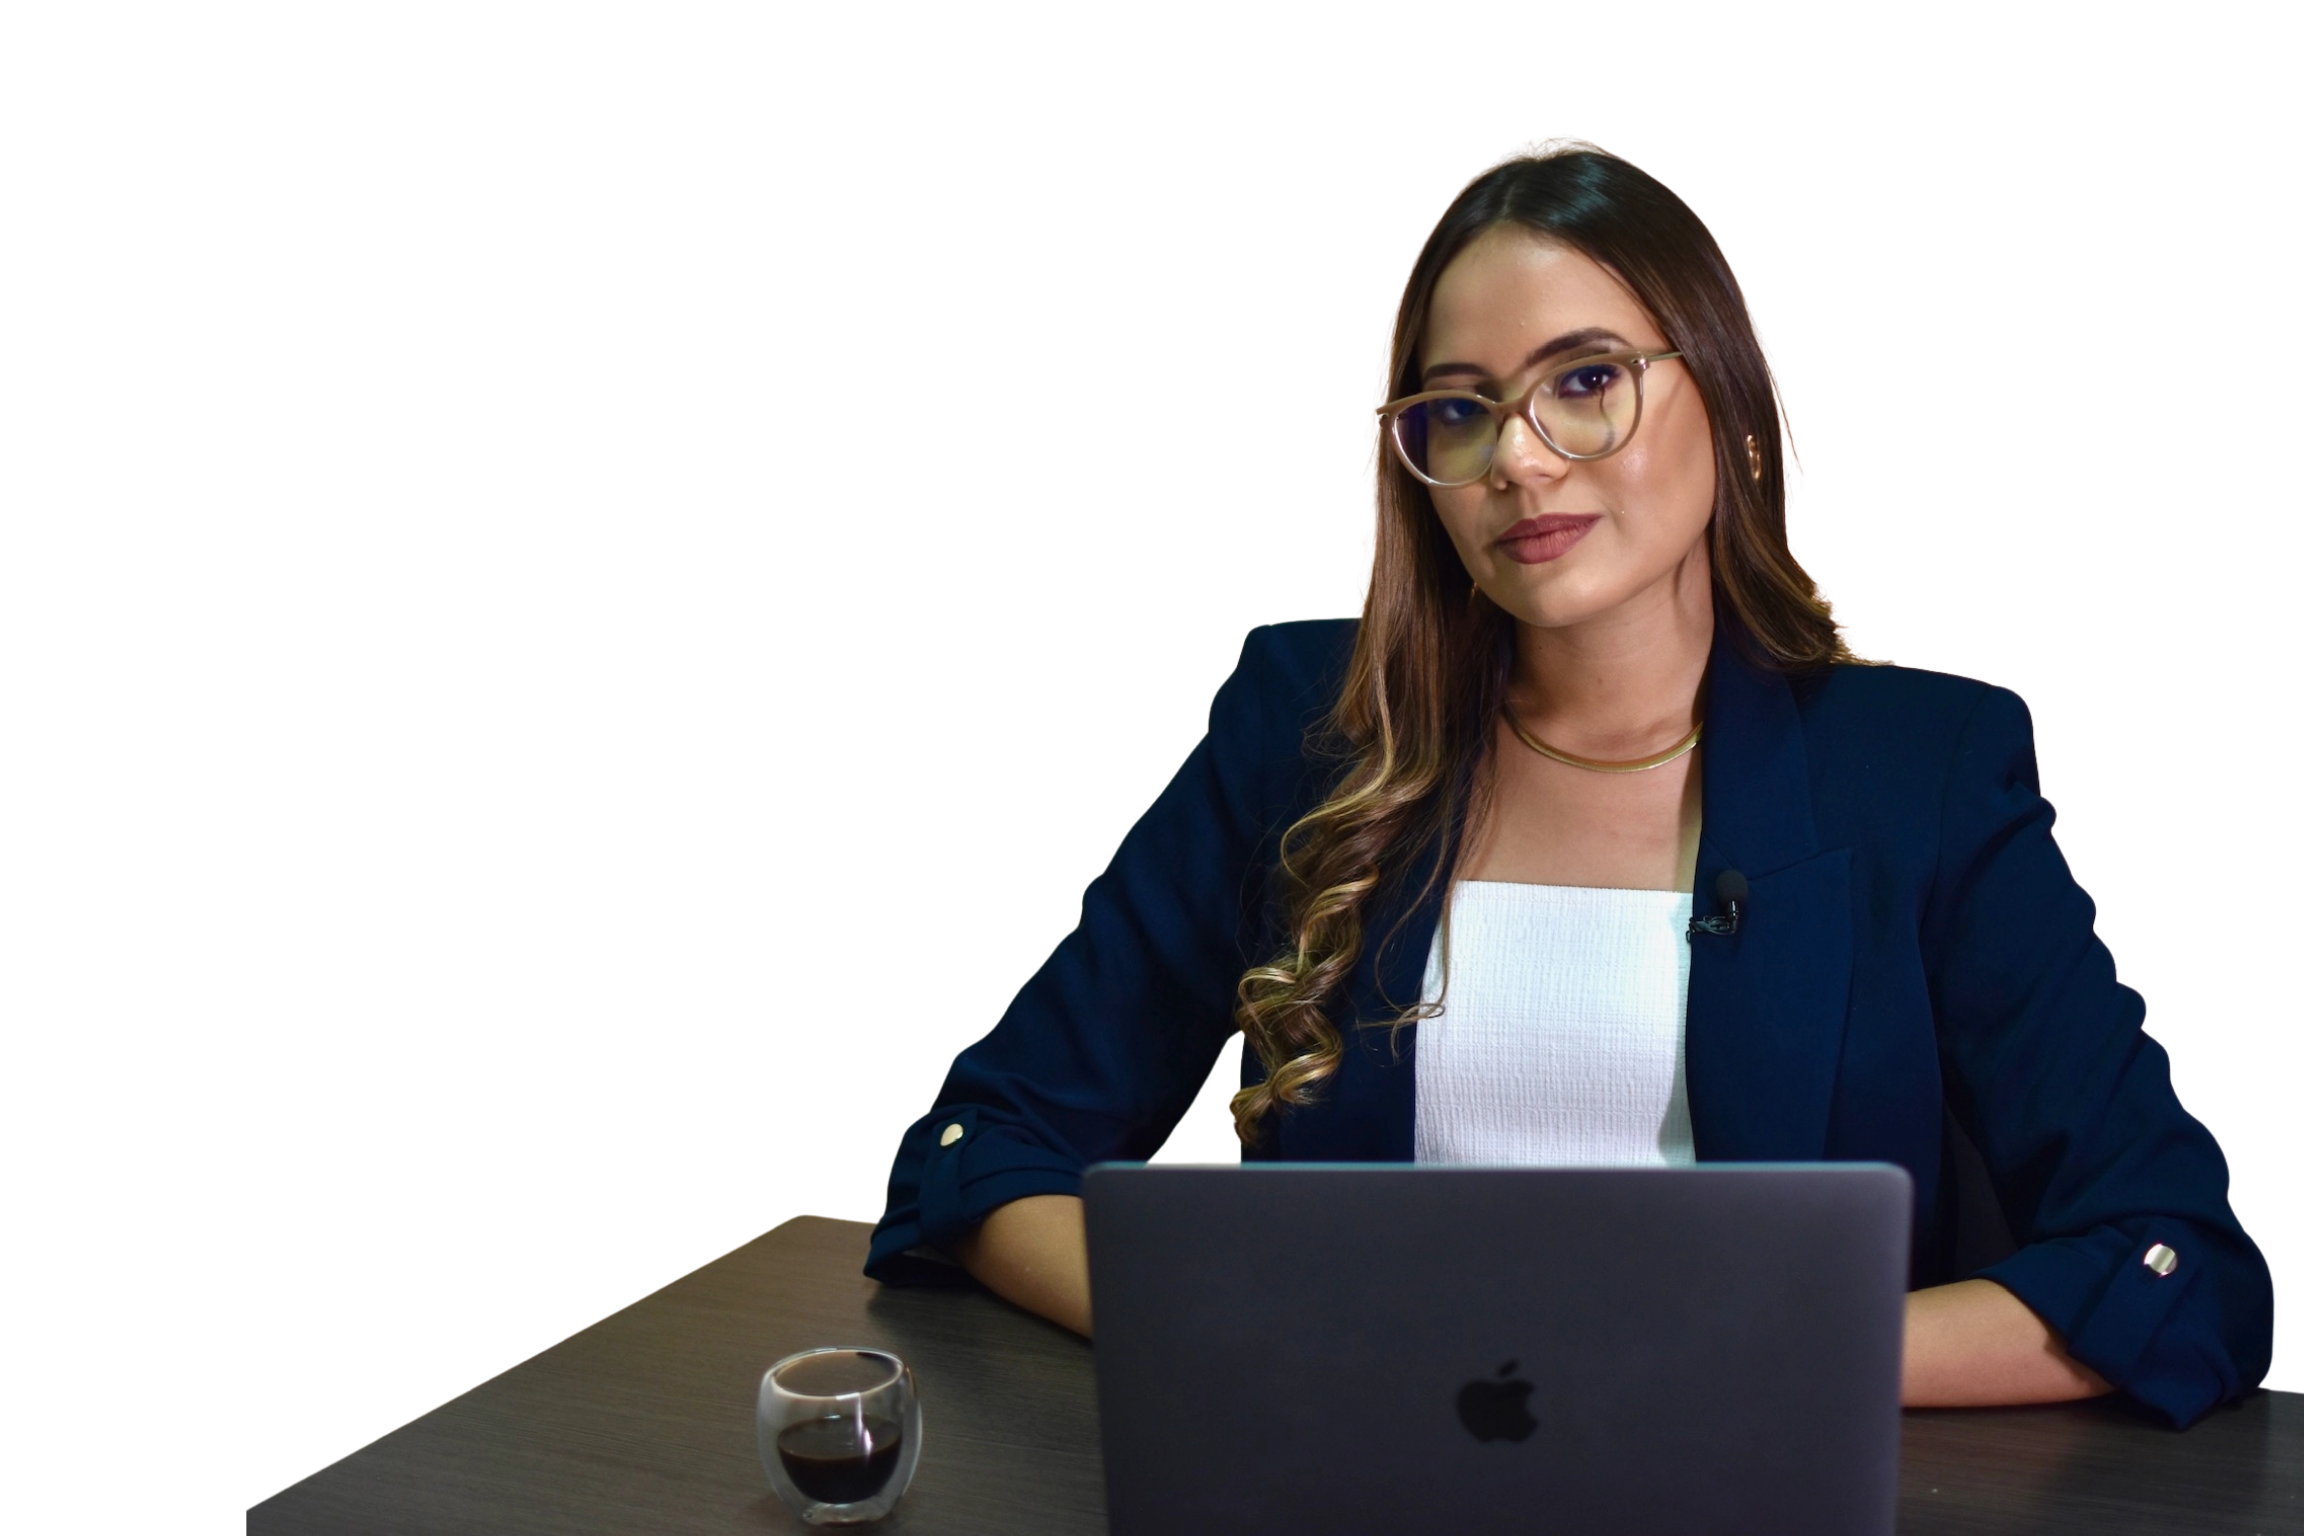
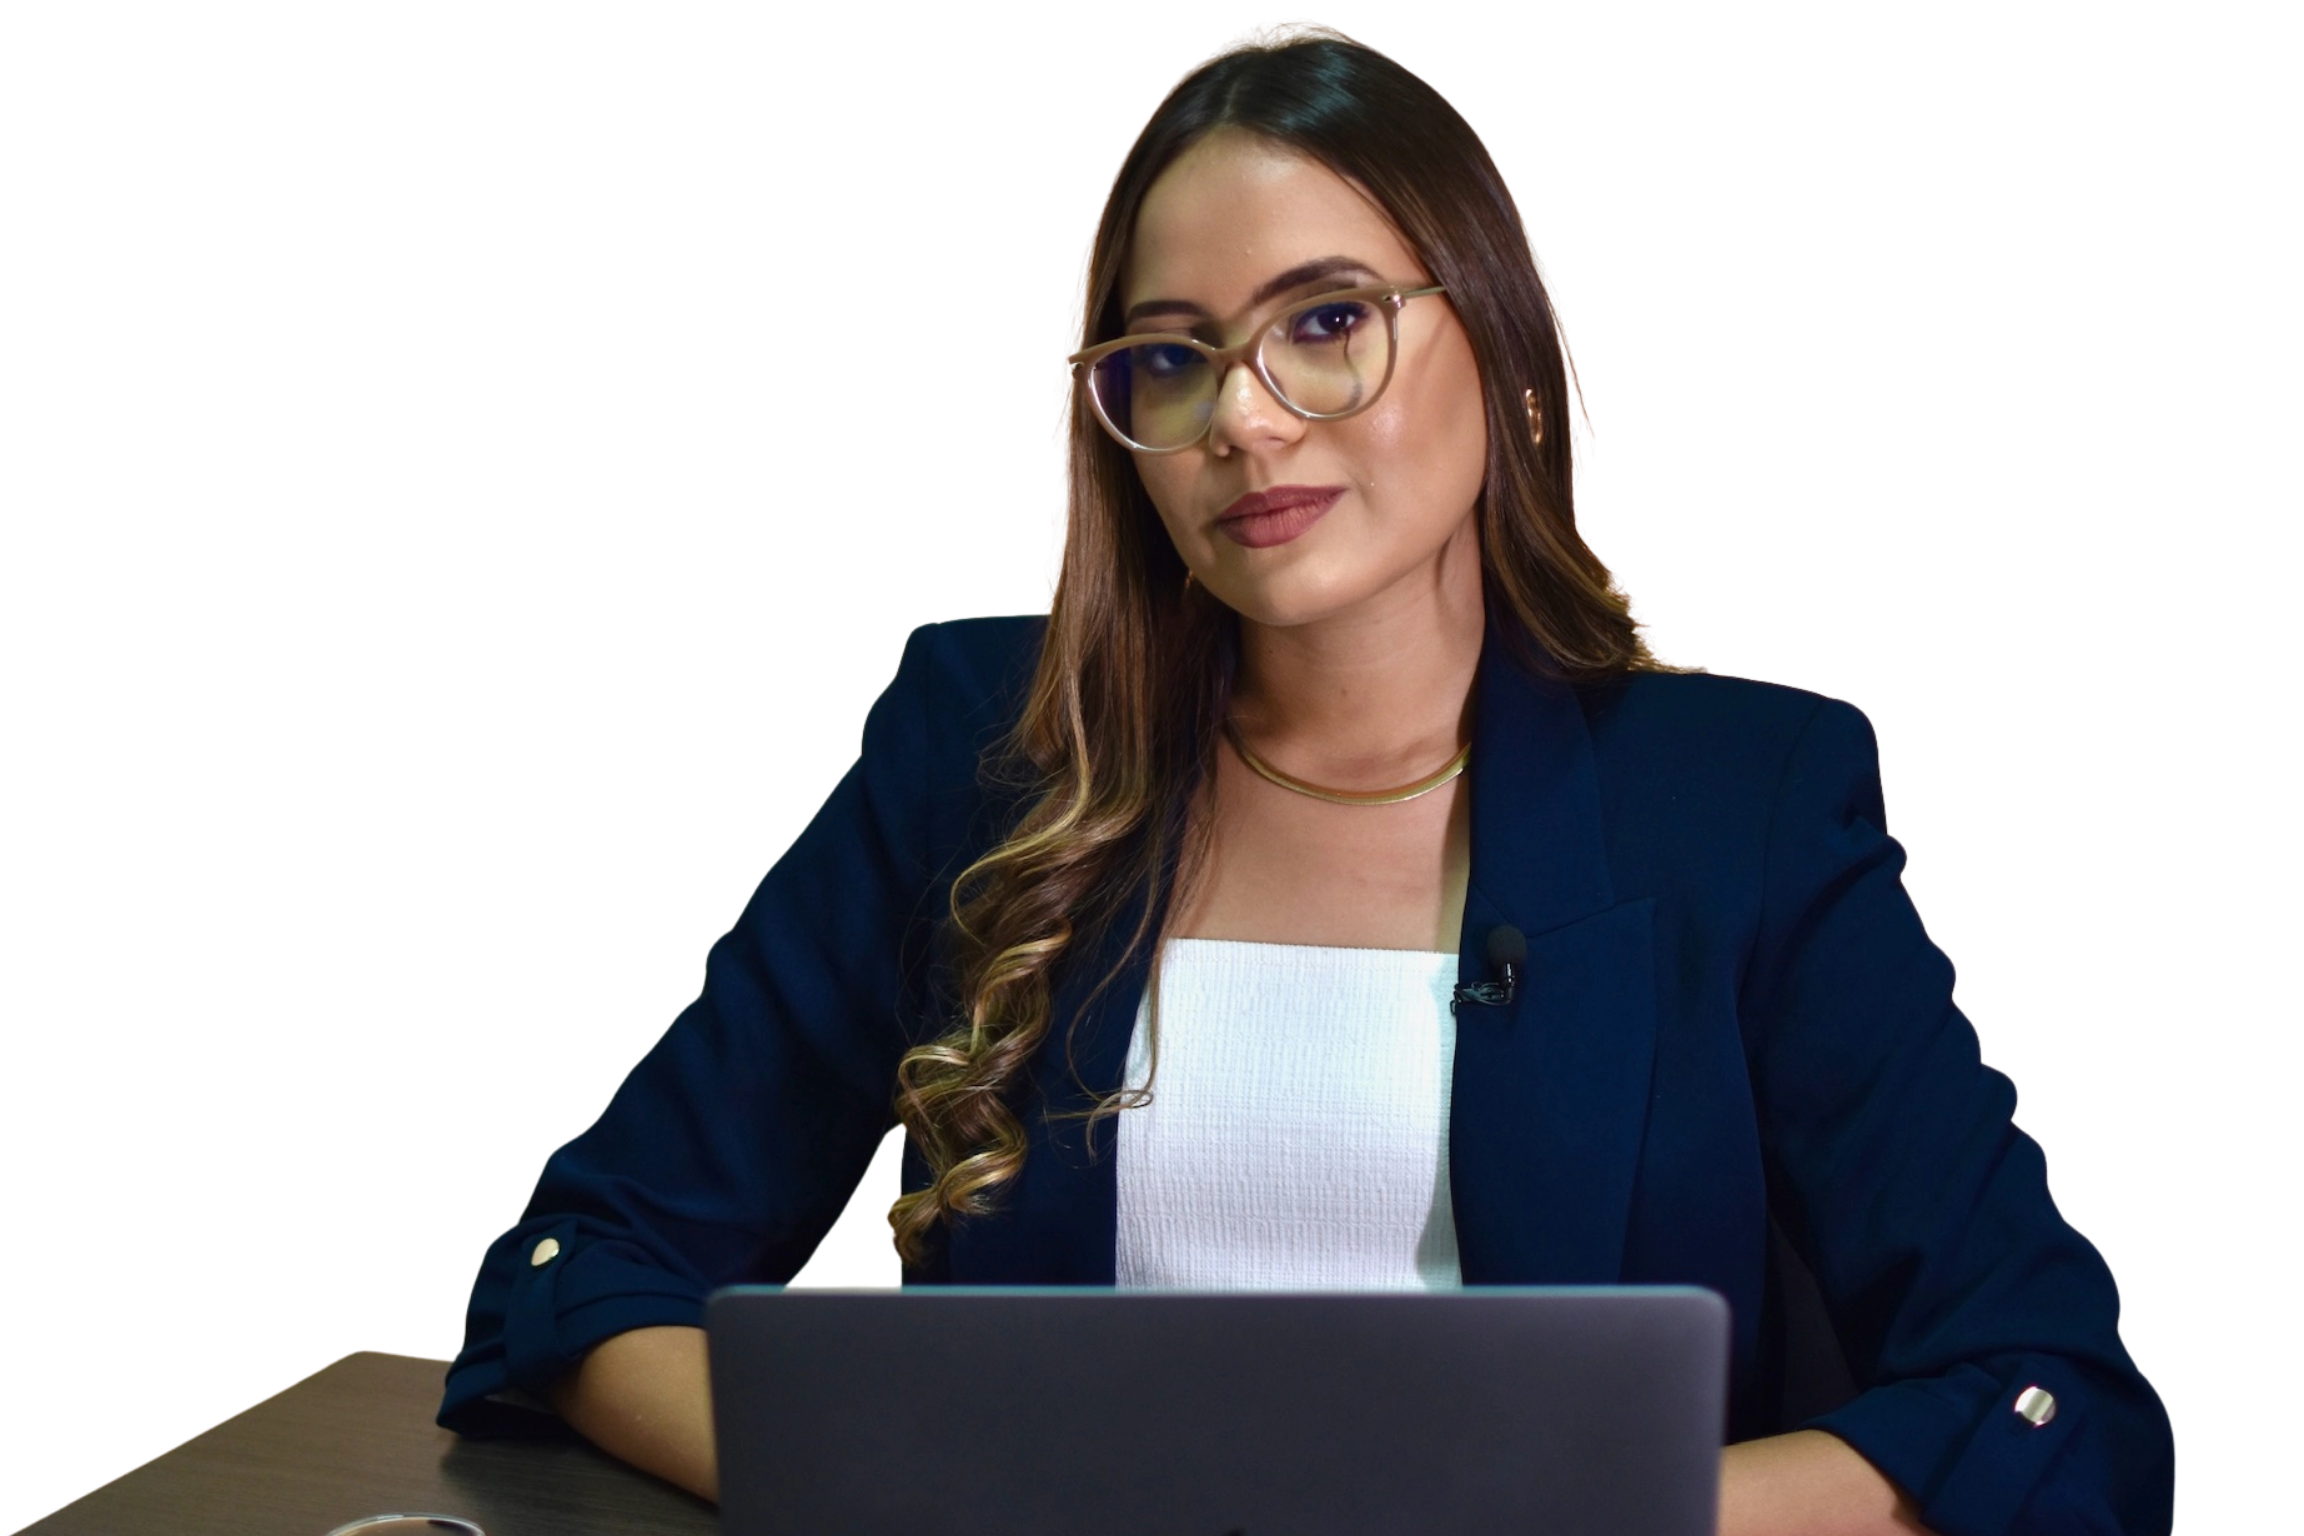
Centraliza secoes e corrige modal v1

diff --git a/src/imersao-v1.css b/src/imersao-v1.css
@@ -49,7 +49,7 @@ a { color: inherit; text-decoration: none; }
   height: 342px;
   margin: 0 -20px;
   overflow: hidden;
-  background: linear-gradient(180deg, rgba(75, 205, 217, .42), rgba(255, 248, 234, .9) 78%, var(--v1-bg));
+  background: linear-gradient(180deg, var(--v1-ink-strong) 0%, var(--v1-ink) 64%, var(--v1-bg) 100%);
 }
 
 .hero-burst {
@@ -166,15 +166,15 @@ a { color: inherit; text-decoration: none; }
   background: url("/assets/brand/claude-logo.svg") center / contain no-repeat;
 }
 
-.section { padding: 58px 20px; background: var(--v1-bg); }
+.section { padding: 58px 20px; background: var(--v1-bg); text-align: center; }
 .section > * { max-width: 1200px; margin-inline: auto; }
 .spark { display: grid; width: 48px; height: 48px; place-items: center; }
 .spark img { display: block; width: 100%; height: 100%; object-fit: contain; }
 .section h2 { max-width: 720px; margin: 18px auto 0; color: var(--v1-ink); font-size: 29px; font-weight: 800; letter-spacing: -.055em; line-height: 1.02; text-align: center; }
-.copy-stack { display: grid; gap: 18px; max-width: 760px; margin-top: 28px; }
+.copy-stack { display: grid; gap: 18px; max-width: 760px; margin-top: 28px; text-align: center; }
 p { margin: 0; }
 .copy-stack p, .lead-copy p, .faq-list p, .module-grid p, .fit li, .lead-price, .price-note { color: var(--v1-ink); font-size: 18px; font-weight: 500; letter-spacing: -.025em; line-height: 1.32; }
-.highlight-line { display: inline; width: fit-content; padding: 2px 5px; background: var(--v1-orange-2); color: var(--v1-ink-strong) !important; font-weight: 800 !important; }
+.highlight-line { display: inline-block; width: fit-content; padding: 2px 5px; background: var(--v1-orange-2); color: var(--v1-ink-strong) !important; font-weight: 800 !important; }
 .dark-section { background: var(--v1-ink-strong); color: #fff6e6; }
 .dark-section h2, .dark-section p, .dark-section li, .dark-section h3, .dark-section .instructor { color: #fff6e6; }
 
@@ -194,8 +194,8 @@ p { margin: 0; }
 
 .fit-grid { display: grid; gap: 24px; margin-top: 34px; }
 .fit ul { display: grid; gap: 14px; margin: 0; padding: 0; list-style: none; }
-.fit li { position: relative; padding-left: 28px; }
-.fit li::before { content: "✓"; position: absolute; left: 0; color: var(--v1-orange-2); font-weight: 900; }
+.fit li { position: relative; padding-left: 0; text-align: center; }
+.fit li::before { content: "✓"; position: static; margin-right: 8px; color: var(--v1-orange-2); font-weight: 900; }
 .fit .negative-list li::before { content: "×"; }
 .fit h3 { margin: 0 0 18px; font-size: 22px; line-height: 1.1; }
 
@@ -217,12 +217,12 @@ p { margin: 0; }
 .lead-modal__close { position: absolute; top: 12px; right: 12px; display: grid; width: 44px; height: 44px; place-items: center; border: 1px solid var(--v1-line); border-radius: 50%; background: #f0ceab; color: var(--v1-ink); cursor: pointer; font: inherit; font-size: 28px; line-height: 1; }
 .lead-modal h2 { width: calc(100% - 52px); margin: 0; color: var(--v1-ink); font-size: 42px; font-weight: 800; letter-spacing: -.06em; line-height: .95; }
 .lead-modal p { margin: 16px 0 0; color: var(--v1-ink); font-size: 16px; line-height: 1.45; }
-.lead-form { display: grid; gap: 14px; margin-top: 22px; }
-.lead-form label { display: grid; gap: 8px; font-size: 13px; font-weight: 900; line-height: 1; text-transform: uppercase; }
-.lead-form input { width: 100%; min-height: 48px; padding: 0 14px; border: 1px solid var(--v1-line); border-radius: 12px; background: #fff; color: var(--v1-ink); font: inherit; font-size: 16px; }
+.lead-form { display: grid; min-width: 0; gap: 14px; margin-top: 22px; }
+.lead-form label { display: grid; min-width: 0; gap: 8px; font-size: 13px; font-weight: 900; line-height: 1; text-transform: uppercase; }
+.lead-form input { width: 100%; max-width: 100%; min-width: 0; min-height: 48px; padding: 0 14px; border: 1px solid var(--v1-line); border-radius: 12px; background: #fff; color: var(--v1-ink); font: inherit; font-size: 16px; }
 .lead-form__message { min-height: 22px; margin: 0; color: var(--v1-green-dark); font-size: 14px; line-height: 20px; }
 .lead-form__message[data-type="error"] { color: #9f321b; }
-.lead-form__submit { width: 100%; min-height: 58px; margin-top: 2px; }
+.lead-form .lead-form__submit { width: 100%; max-width: 100%; min-height: 58px; margin-top: 2px; }
 .lead-form__submit:disabled { cursor: wait; opacity: .72; }
 
 @keyframes v1-marquee { from { transform: translateX(0); } to { transform: translateX(-50%); } }